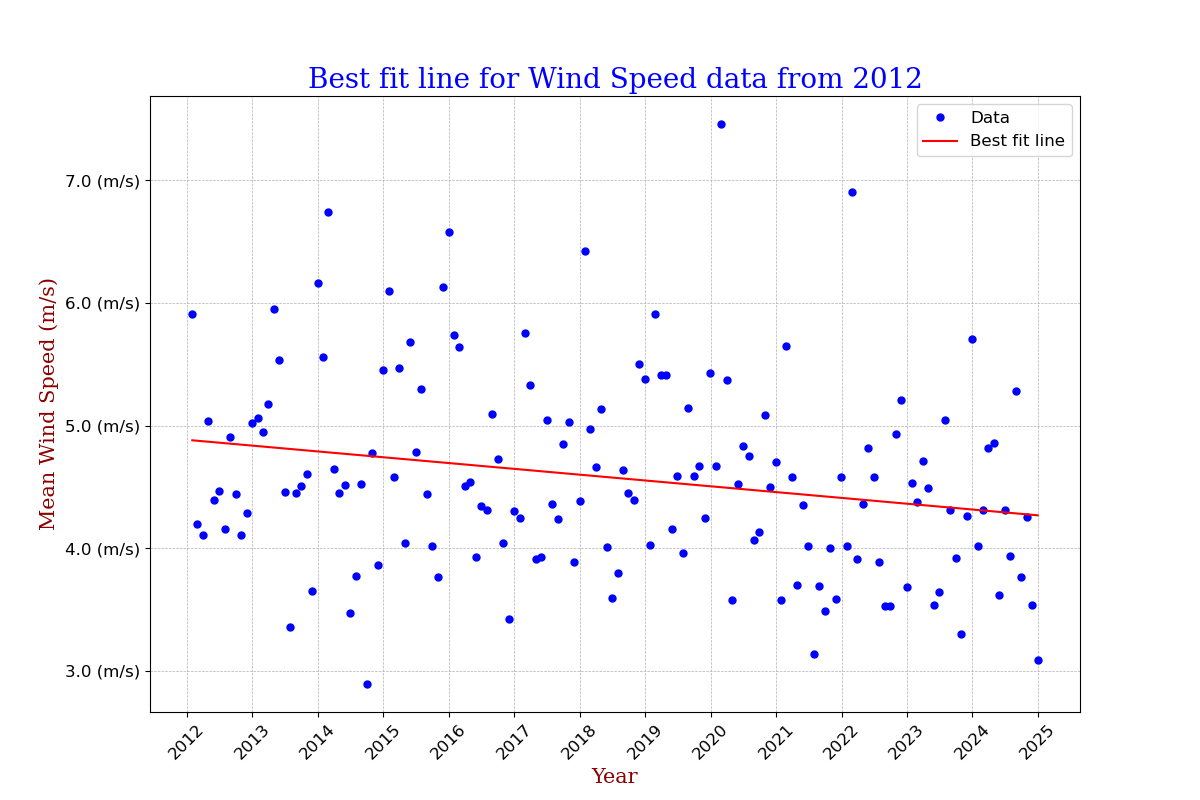
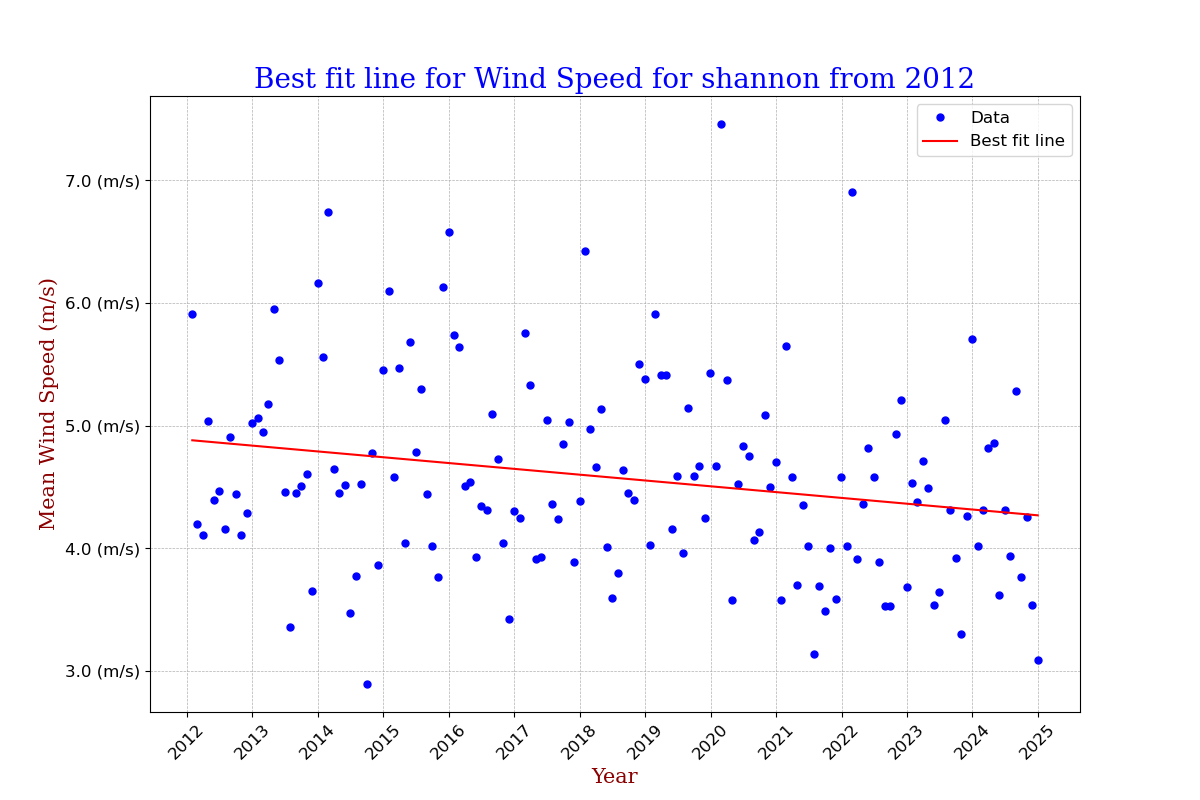
Adding images for windspeed best fit lines

Changed region(s): [[0.2158, 0.0625, 0.8017, 0.125]]

diff --git a/PFDA_Project/python/best_fit.py b/PFDA_Project/python/best_fit.py
@@ -65,8 +65,10 @@ class BestFit:
         ax.set_xlabel('Year', fontdict=font2)
         ax.set_ylabel('Mean Wind Speed (m/s)', fontdict=font2)
 
+        title = 'Best fit line for Wind Speed for '+self.placename+' from 2012'
+
         #Add a title to the plot
-        plt.title('Best fit line for Wind Speed data from 2012', fontdict=font1)
+        plt.title(title, fontdict=font1)
 
         #Add a legend
         ax.legend(loc='upper right', fontsize=12)
